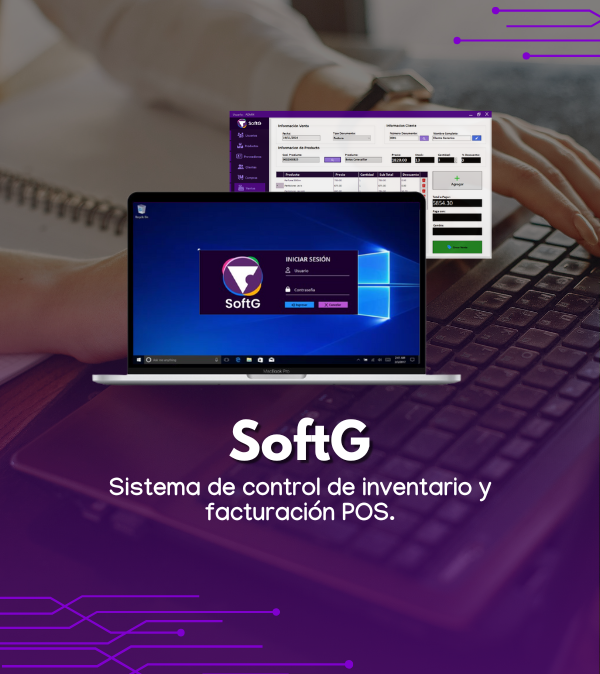
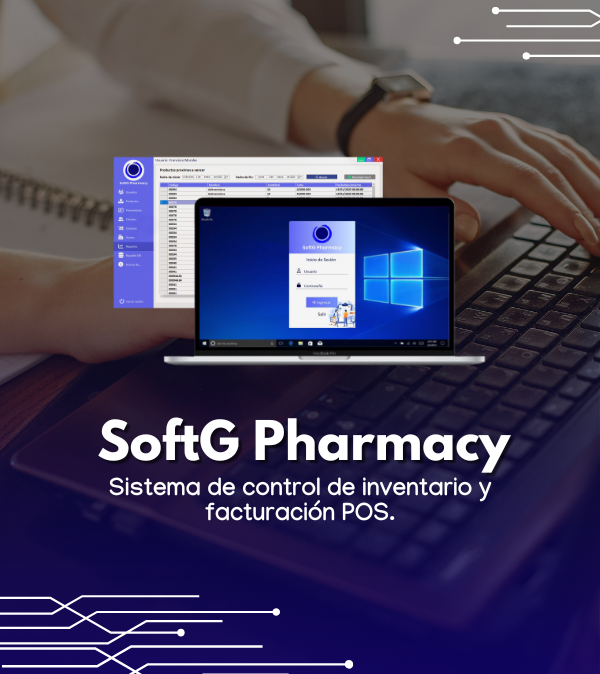
modificando pagina imagenes softg pharmacy

diff --git a/index.html b/index.html
@@ -69,12 +69,12 @@
     <section class="section__container choose__container" id="choose">
       <img class="choose__bg" src="assets/puntos.png" alt="bg" />
       <div class="choose__content">
-        <h2 class="section__header">Módulos de SoftG</h2>
+        <h2 class="section__header">Módulos de SoftG Pharmacy</h2>
         <p class="section__subheader">
-          SoftG: El sistema POS que transforma la gestión de tu negocio,
-          combinando ventas rápidas con control eficiente de inventarios,
-          compras y más. A continuación, descubre los módulos que hacen todo
-          esto posible y cómo cada uno puede optimizar tu operación.
+          SoftG Pharmacy: El sistema POS que transforma la gestión de tu
+          negocio, combinando ventas rápidas con control eficiente de
+          inventarios, compras y más. A continuación, descubre los módulos que
+          hacen todo esto posible y cómo cada uno puede optimizar tu operación.
         </p>
 
         <div class="choose__grid">
@@ -122,9 +122,9 @@
         <img src="assets/SoftG3.png" alt="modern" class="modern__img-3" />
       </div>
       <div class="modern__content">
-        <h2 class="section__header">SoftG</h2>
+        <h2 class="section__header">SoftG Pharmacy</h2>
         <p class="section__subheader">
-          Descubre los módulos de SoftG que transformarán tu negocio.
+          Descubre los módulos de SoftG Pharmacy que transformarán tu negocio.
         </p>
 
         <div class="choose__grid">
@@ -169,14 +169,14 @@
     </section>
 
     <section class="section__container blog_container" id="blog">
-      <h2 class="section__header">Modulos de SoftG</h2>
+      <h2 class="section__header">Modulos de SoftG Pharmacy</h2>
       <div class="blog__grid">
         <div class="blog__card">
           <img src="assets/softG01.png" alt="blog" />
           <h4>Módulo de Usuarios</h4>
         </div>
         <div class="blog__card">
-          <img src="assets/softG02.png" alt="blog" />
+          <img src="assets/softG02 (2).png" alt="blog" />
           <h4>Módulo de Productos</h4>
         </div>
         <div class="blog__card">
@@ -197,15 +197,23 @@
         </div>
         <div class="blog__card">
           <img src="assets/softG07.png" alt="blog" />
-          <h4>Módulo de Reportes</h4>
+          <h4>Reporte de compra</h4>
+        </div>
+        <div class="blog__card">
+          <img src="assets/reporteVenta.png" alt="blog" />
+          <h4>Reporte de venta</h4>
+        </div>
+        <div class="blog__card">
+          <img src="assets/masVendidos.png" alt="blog" />
+          <h4>Productos más vendidos</h4>
+        </div>
+        <div class="blog__card">
+          <img src="assets/reporteProximoVencer.png" alt="blog" />
+          <h4>Productos proximos a vencer</h4>
         </div>
         <div class="blog__card">
           <img src="assets/softG08.png" alt="blog" />
           <h4>Módulo de Respaldo</h4>
-        </div>
-        <div class="blog__card">
-          <img src="assets/softG09.png" alt="blog" />
-          <h4>Acerca de</h4>
         </div>
       </div>
     </section>
@@ -213,8 +221,8 @@
     <footer class="footer">
       <div class="section__container footer__bar">
         <div class="footer__logo">
-          <h4><a href="#">SoftG</a></h4>
-          <p>Copyright © 2025. Hecho con ❤ por Francisco Morales Sánchez.</p>
+          <h4><a href="#">SoftG Pharmacy</a></h4>
+          <p>Copyright © 2025 DevGsoft. Hecho con ❤</p>
         </div>
 
         <ul class="footer__nav">

diff --git a/styles.css b/styles.css
@@ -1,9 +1,9 @@
 @import url("https://fonts.googleapis.com/css2?family=Lora:wght@600;700&family=Poppins:wght@400;500;600;700&display=swap");
 
 :root {
-  --primary-color: #1b002d;
-  --text-dark: #1b002d;
-  --text-light: #412d46;
+  --primary-color: #00028b;
+  --text-dark: #000850;
+  --text-light: #00012d;
   --white: #ffffff;
   --max-width: 1200px;
   --header-font: "Lora", serif;
@@ -267,7 +267,7 @@ nav {
   transform: translateX(-50%);
   width: 12px; /* Tamaño del punto rojo */
   height: 12px; /* Tamaño del punto rojo */
-  background-color: red; /* Color rojo */
+  background-color: rgb(255, 10, 10); /* Color rojo */
   border-radius: 50%; /* Hace que el punto sea redondo */
   /* Eliminamos la animación de pulsar, ya no se moverá */
 }
@@ -335,7 +335,7 @@ nav {
   margin-bottom: 0.5rem;
   padding: 5px 10px;
   font-size: 1.25rem;
-  background-color: #dcc4ec;
+  background-color: #94c2ff;
   border-radius: 100%;
 }
 
